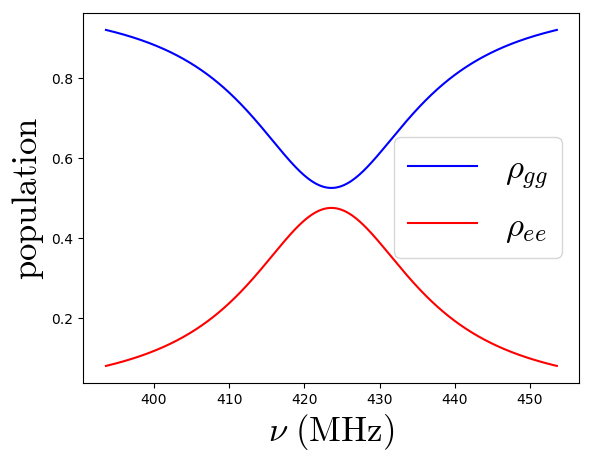
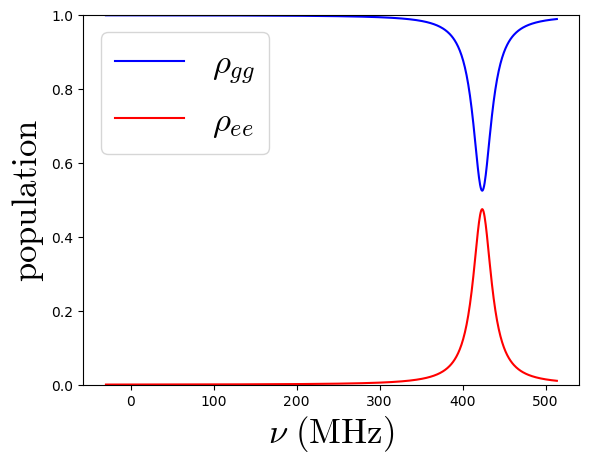
Cosmetics.

diff --git a/sandbox/dense.py b/sandbox/dense.py
@@ -4854,7 +4854,8 @@ Ndelta = 800
 E0 = [27.840415737090957]
 
 delta0 = 2473.0099230109486
-deltaf = delta0 + 60*2*np.pi
+deltaf = delta0 + 120*2*np.pi
+delta0 = -30*2*np.pi
 delta = np.linspace(delta0, deltaf, Ndelta)
 
 mu1 = Mu(8, 8, 1, Ne)
@@ -4877,6 +4878,7 @@ plt.plot(delta/2/np.pi, rhog, "b-", label=r"$\rho_{gg}$")
 plt.plot(delta/2/np.pi, rhoe, "r-", label=r"$\rho_{ee}$")
 plt.xlabel(r"$\nu \ (\mathrm{MHz})$", fontsize=fs)
 plt.ylabel(r"$\mathrm{population}$", fontsize=fs)
+plt.ylim([0, 1])
 plt.legend(fontsize=fs)
 plt.savefig("two_levels.png", bbox_inches="tight")
 
